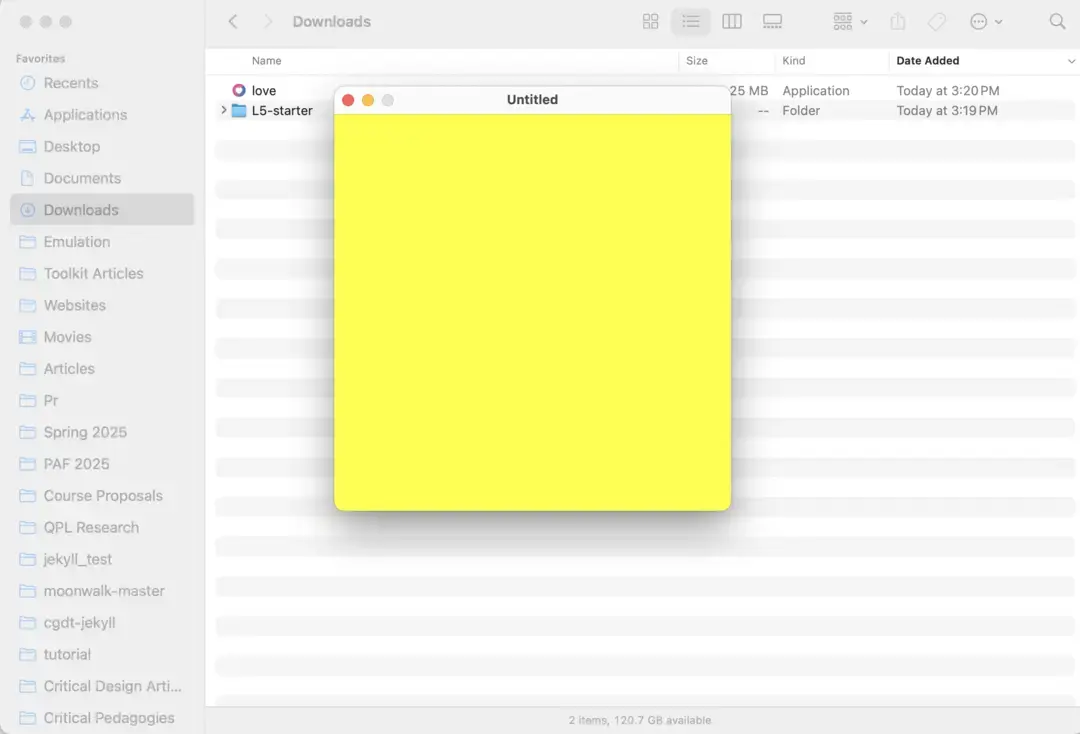
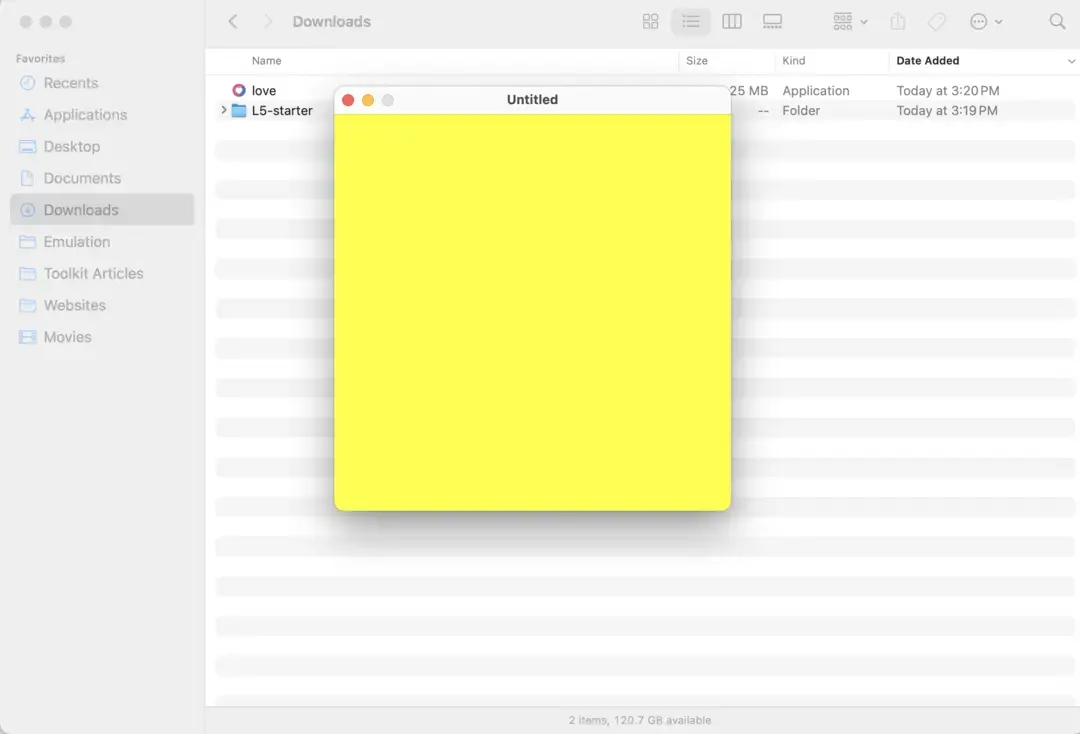
crop mac install images revert install-mac.md to plain markdown for images

diff --git a/docs/download/install-mac.md b/docs/download/install-mac.md
@@ -9,22 +9,22 @@ This tutorial walks you through installing L5 with the Love (Love2d) framework o
 ## Text and Screenshot Tutorial
 
 1. Love is the underlying Framework that will allow L5 code to run on your computer. So we start by installing Love. Go to the [Love website](https://love2d.org) and click to download the 64-bit zipped Mac program.
-<img src="/assets/tutorials/install/mac1.webp" alt="Love2d website with downloads" title="Love2d website with downloads" width="600" />
+![Love2d website with downloads](/assets/tutorials/install/mac1.webp "Love2d website with downloads")
 2. Click **"Allow"** if it asks 'Do you want to allow downloads on "love2d.org"?' It should download to your *Downloads* folder by default.
-<img src="/assets/tutorials/install/mac2.webp" alt="Alert box asking permission to download Love2d" title="Alert box asking permission to install Love2d" width="600" />
+![Alert box asking permission to download Love2d](/assets/tutorials/install/mac2test.webp "Alert box asking permission to install Love2d")
 3. Now on your desktop (called "Finder" on macOS) open up your *Downloads* folder. You can right click and choose Open (see screenshot) or double click on Love to launch it. 
-<img src="/assets/tutorials/install/mac3.webp" alt="Folder with love application and L5 Starter folder" title="Folder with love application and L5 Starter folder" width="600" />
+![Folder with love application and L5 Starter folder](/assets/tutorials/install/mac3.webp "Folder with love application and L5 Starter folder")
 4. A warning popup box opens to say the program and code is not verified by Apple since you will be writing your own custom code. If you can choose Open because you turned off restrictions, then choose Open! Otherwise, **DO NOT** move to the trash. 
-<img src="/assets/tutorials/install/mac4.webp" alt="Alert box stating macOS cannot verify the developer of love. The correct option is Open." title="Alert box stating macOS cannot verify the developer of love. The correct option is Open" width="600" />
+![Alert box stating macOS cannot verify the developer of love. The correct option is Open.](/assets/tutorials/install/mac4.webp "Alert box stating macOS cannot verify the developer of love. The correct option is Open")
 5. If you weren't allowed to open it, go to your System Setting > Privacy &amp; Security. Scroll down to the Security section and next to **"love" was blocked to protect your Mac.** choose **Open Anyway**.
-<img src="/assets/tutorials/install/mac5.webp" alt='System settings showing the Privacy and Security settings. Scroll down to Security and next to "love" was blocked to protect your mac, click to "Open Anyway".' title="Alert box stating macOS cannot verify the developer of love. The correct option is Open" width="600" />
+![System settings showing the Privacy and Security settings. Scroll down to Security and next to "love" was blocked to protect your mac, click to "Open Anyway".](/assets/tutorials/install/mac5.webp "Alert box stating macOS cannot verify the developer of love. The correct option is Open")
 6. Now go back to your Downloads folder and **Double click** on Love. We only need to do this once! It's to verify Love works on your computer, which will allow L5 to run your custom code. You should see a window open with a flying bird-shaped balloon and clouds, verifying that Love is now properly installed on your computer. **At this point you can close the window.**
-<img src="/assets/tutorials/install/mac6.webp" alt="A flying bird-shaped balloon and cartoon clouds" title="A flying bird-shaped balloon and cartoon clouds" width="600" />
+![A flying bird-shaped balloon and cartoon clouds](/assets/tutorials/install/mac6.webp "A flying bird-shaped balloon and cartoon clouds")
 7. From the L5lua.org Download page, [download the L5 Starter project](/L5-starter.zip).
-<img src="/assets/tutorials/install/mac7.webp" alt="L5 website download page with L5 Starter" title="L5 website download page with L5 Starter" width="600" />
+![L5 website download page with L5 Starter](/assets/tutorials/install/mac7.webp "L5 website download page with L5 Starter")
 8. Click **"Allow"** if it asks 'Do you want to allow downloads on "l5lua.org"?'
-<img src="/assets/tutorials/install/mac8.webp" alt="Alert box asking permission to download L5-Starter" title="Alert box asking permission to download L5 Starter" width="600" />
+![Alert box asking permission to download L5-Starter](/assets/tutorials/install/mac8test.webp "Alert box asking permission to download L5 Starter")
 9. Back in your downloads folder, **drag the L5-starter folder onto the Love application in the folder**. It should now launch and you should see a new window open with your code sketch.
-<img src="/assets/tutorials/install/mac9.webp" alt="A yellow background window appearing on top of folder holding L5 Starter and love application" title="A yellow background window appearing on top of folder holding L5 Starter and love application" width="600" />
+![A yellow background window appearing on top of folder holding L5 Starter and love application](/assets/tutorials/install/mac9.webp "A yellow background window appearing on top of folder holding L5 Starter and love application")
 
-**Next steps:** You've installed Love and have L5 on your computer and verified you can run your own programs. Check out [Getting Started](/getting-started) or the [tutorials](/tutorials/) to learn more about where you can edit your code and run it.
+**Next steps:** You've installed Love and have L5 on your computer and verified you can run your own programs. Check out [Getting Started](/getting-started) or the [tutorials](index.md) to learn more about where you can edit your code and run it.
